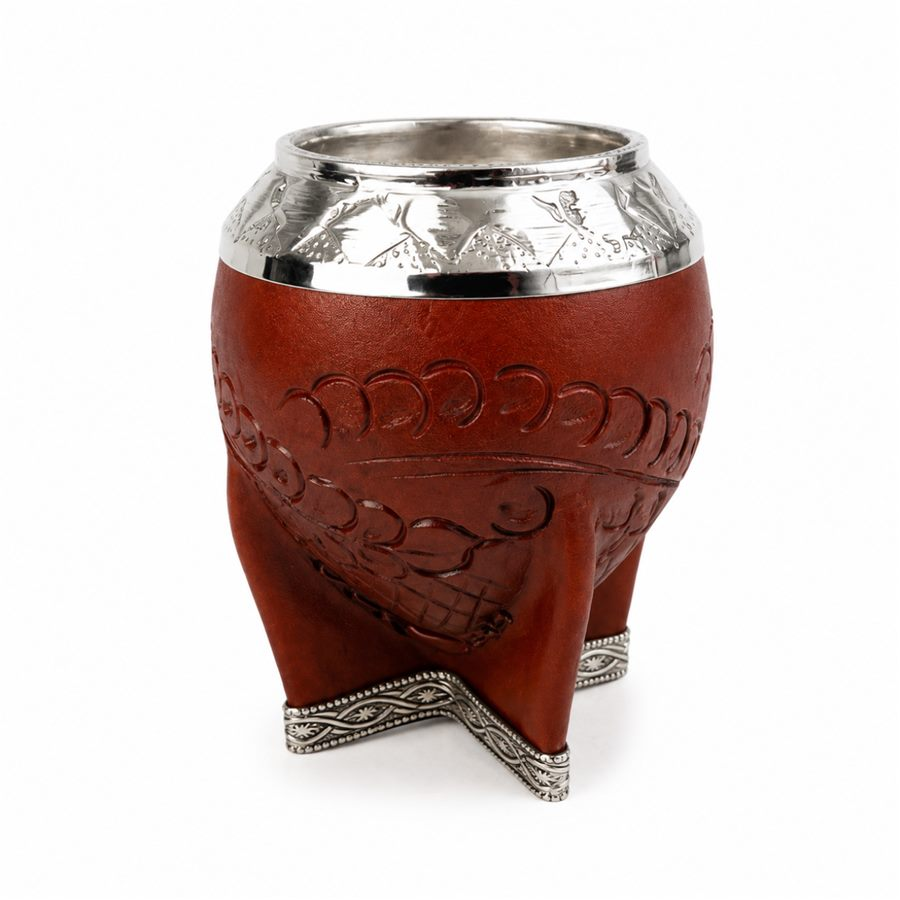
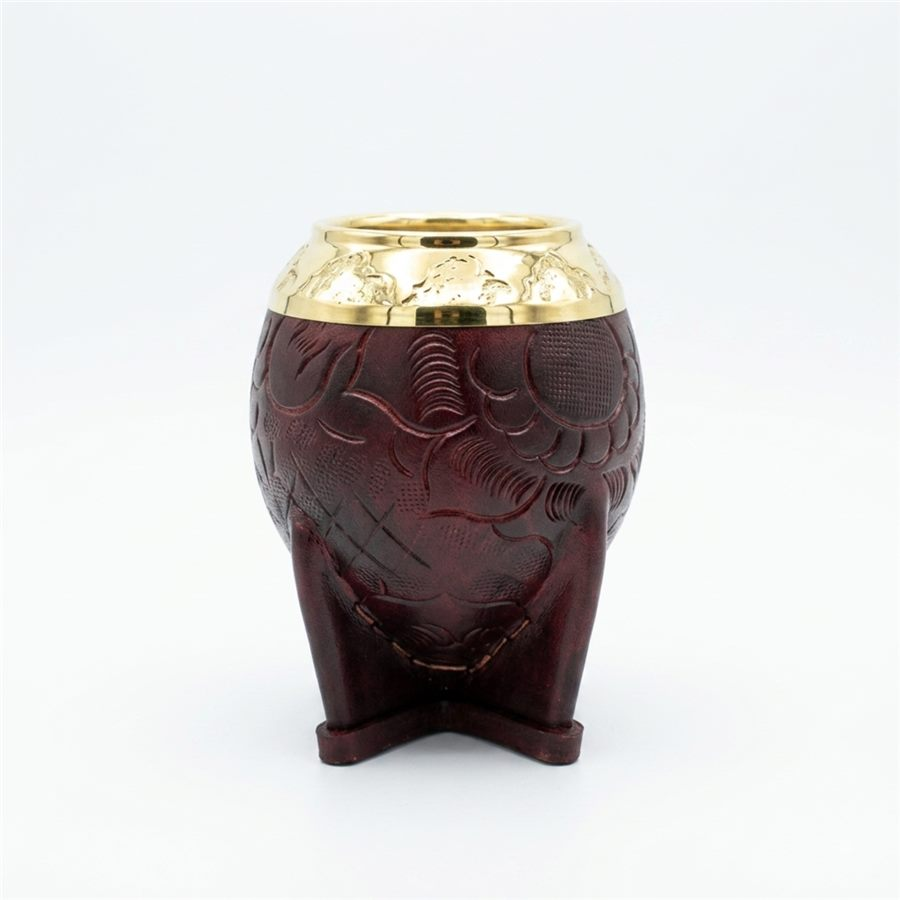
Agrego productos de verano, nuevos imperiales y fotos faltantes

diff --git a/app.js b/app.js
@@ -54,7 +54,11 @@ function cargarCategorias() {
     return lista;
   }, []);
 
-  const botones = ["todas", ...categorias].map((categoria) => {
+  // Si algún producto tiene "verano": true, aparece una sección Verano con todos ellos
+  const hayVerano = productos.some((producto) => producto.verano === true);
+  const lista = hayVerano ? ["todas", "Verano", ...categorias] : ["todas", ...categorias];
+
+  const botones = lista.map((categoria) => {
     const texto = categoria === "todas" ? "Todas" : categoria;
     const activo = categoria === categoriaActiva;
     return `<button type="button" class="categoria-boton" data-categoria="${categoria}" aria-pressed="${activo}">${texto}</button>`;
@@ -79,7 +83,9 @@ function filtrarProductos() {
       producto.subcategoria.toLowerCase().includes(texto) ||
       producto.variantes.join(" ").toLowerCase().includes(texto);
     const coincideCategoria =
-      categoria === "todas" || producto.categoria === categoria;
+      categoria === "todas" ||
+      producto.categoria === categoria ||
+      (categoria === "Verano" && producto.verano === true);
 
     return coincideTexto && coincideCategoria;
   });

diff --git a/index.html b/index.html
@@ -21,7 +21,7 @@
   <link rel="preconnect" href="https://fonts.googleapis.com">
   <link rel="preconnect" href="https://fonts.gstatic.com" crossorigin>
   <link rel="stylesheet" href="https://fonts.googleapis.com/css2?family=Bricolage+Grotesque:opsz,wght@12..96,600..800&family=DM+Sans:wght@400;500;700&display=swap">
-  <link rel="stylesheet" href="style.css?v=5">
+  <link rel="stylesheet" href="style.css?v=6">
 </head>
 <body>
   <header class="portada">
@@ -154,6 +154,6 @@
     <div id="galeria-fotos" class="galeria-fotos"></div>
   </dialog>
 
-  <script src="app.js?v=5"></script>
+  <script src="app.js?v=6"></script>
 </body>
 </html>

diff --git a/style.css b/style.css
@@ -186,6 +186,10 @@ input {
   border-color: var(--verde);
 }
 
+.categoria-boton[data-categoria="Verano"]:not([aria-pressed="true"]) {
+  border-color: var(--bronce);
+}
+
 .categoria-boton[aria-pressed="true"] {
   color: #ffffff;
   background-color: var(--verde);

diff --git a/GUIA-MANTENIMIENTO.md b/GUIA-MANTENIMIENTO.md
@@ -46,8 +46,33 @@ Las fotos de ese producto pueden quedar en `imagenes/`; no molestan. Si querés 
 
 ### Paso A: la foto
 
-1. Achicá la foto a unos 900 px de lado y guardala como JPG (podés usar el script `preparar-fotos.ps1` o cualquier editor).
+**Tamaño de la foto:** no hace falta una medida exacta. La página muestra la foto entera sobre fondo blanco, sin deformarla ni recortarla, así que cualquier proporción entra (cuadrada, vertical u horizontal). Lo único que importa es el peso: una foto del celular pesa varios MB y hace lenta la página, por eso se achica a unos 900 px de lado y se guarda como JPG. Las cuadradas con fondo claro son las que mejor se ven.
+
+1. Achicá la foto a unos 900 px de lado y guardala como JPG. Podés hacerlo con cualquier editor, o con el script (ver más abajo).
 2. Ponele el nombre del `slug` del producto y guardala en la carpeta `imagenes/`. El `slug` es el nombre en minúsculas, sin tildes ni símbolos y con guiones. Ejemplo: `yerba-nueva-1kg.jpg`.
+
+### Achicar varias fotos nuevas con el script
+
+Sirve para preparar muchas fotos de una vez (por ejemplo, los productos de verano):
+
+1. Creá un archivo de texto `fotos-nuevas.csv` en la carpeta del repo, con este formato (separado por punto y coma, la primera línea es fija):
+
+```
+archivo;destino
+IMG_1234.jpg;imagenes/mate-verano-1.jpg
+IMG_1235.jpg;imagenes/bombilla-verano-1.jpg
+```
+
+   `archivo` es el nombre de la foto original (el script la busca en todas las subcarpetas de la carpeta de origen) y `destino` es el nombre final con el `slug`.
+
+2. En PowerShell, dentro de la carpeta del repo:
+
+```powershell
+Set-ExecutionPolicy -Scope Process Bypass
+.\preparar-fotos.ps1 -Origen "C:\Users\janez\Pictures\EMPRENDIMIENTO\PRODUCTOS" -Plan ".\fotos-nuevas.csv"
+```
+
+3. Las fotos achicadas quedan en `imagenes/`. Las originales no se tocan. Si alguna no se encuentra, el script la lista al final.
 
 ### Paso B: el bloque en el JSON
 
@@ -70,7 +95,7 @@ Qué significa cada campo:
 
 | Campo | Qué poner |
 |---|---|
-| `id` | Un número que no se repita. Usá el siguiente al más alto que haya (ahora el último es 169). |
+| `id` | Un número que no se repita. Usá el siguiente al más alto que haya (ahora el último es 180). |
 | `slug` | Nombre en minúsculas, sin tildes, con guiones. Tiene que ser único. |
 | `nombre` | El nombre que se ve en la tarjeta. |
 | `categoria` | Una categoría que ya exista, escrita igual (ej: `Yerbas`, `Bombillas`). Si escribís una nueva, aparece sola en el filtro. |
@@ -93,6 +118,18 @@ Agregá `fotosVariantes`, con una foto por variante. Al tocar el botón de esa v
 ```
 
 Las variantes que no estén en `fotosVariantes` se ven como etiqueta, sin botón.
+
+### Productos de la sección Verano
+
+Para que un producto aparezca también en la sección **Verano** (además de en su categoría), agregá `"verano": true` en su bloque:
+
+```json
+"precio": 6000,
+"verano": true,
+"foto": "imagenes/yerba-nueva.jpg"
+```
+
+El botón "Verano" aparece solo mientras haya algún producto con ese campo. Cuando termine la temporada, borrá esa línea de los productos (o ponele `false`) y el botón desaparece.
 
 ---
 

diff --git a/README.md b/README.md
@@ -98,3 +98,7 @@ Un producto con `"agotado": true` en `productos.json` se muestra atenuado, con l
 ## Preguntas frecuentes
 
 Al final de la página hay un bloque de preguntas frecuentes (cómo pedir, pago y seña, tiempos, envíos, grabados, cambios y atención), armado con `<details>` y `<summary>`: se abre y se cierra sin JavaScript, y funciona con teclado. El texto está en `index.html`.
+
+## Sección Verano
+
+Un producto con `"verano": true` en `productos.json` aparece también en el botón **Verano**, además de en su categoría. Si ningún producto tiene ese campo, el botón no se muestra.
